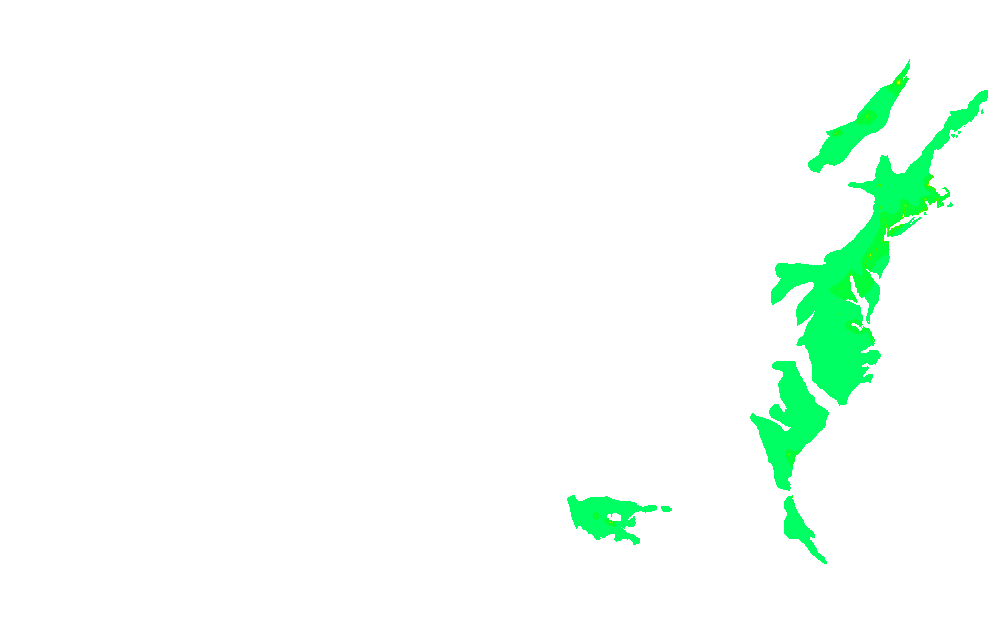
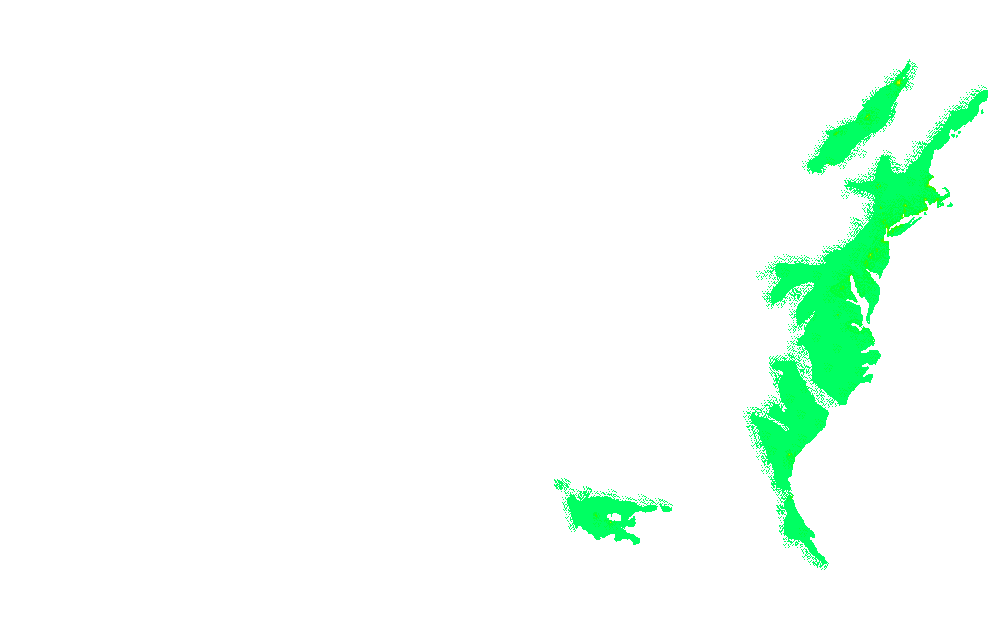
More Sparse Cities

diff --git a/src/populate.c b/src/populate.c
@@ -89,10 +89,10 @@ unsigned short calc_cell_population(int target_cell, struct DataDims data_dims, 
     if (pop > 40000) return pop;
 
     // Value of a cell on a scale of 0-100
-    short cell_value = jitter_range * 40;
+    short cell_value = jitter_range * 80;
     unsigned short nearby_water = count_neighbor_values(target_cell+2, 2, data_dims, ghost_cols, data).count;
 
-    cell_value += nearby_water > 25 ? 25 : nearby_water;
+    cell_value += nearby_water*0.75 > 25 ? 25 : nearby_water*0.75;
     cell_value += resources / 2;
     cell_value += 10 - (elev / 1000);
     cell_value += 15 - (grad / 3);
@@ -116,56 +116,57 @@ unsigned short calc_cell_population(int target_cell, struct DataDims data_dims, 
     // If the cell is uninhabited and the cell value is high enough, explore the cell
     if (pop == 0) {
         if (
-            (nearby_population.count > 0 && cell_value > 50) ||
-            (nearby_population.count > 40 && cell_value > 40) ||
-            (nearby_population.count > 70 && cell_value > 30) ||
-            (nearby_population.count > 100 && cell_value > 20)
+            (nearby_population.count > 0 && cell_value > 40) ||
+            (nearby_population.count > 4 * MIN_POP && cell_value > 35) ||
+            (nearby_population.count > 6 * MIN_POP && cell_value > 30) ||
+            (nearby_population.count > 8 * MIN_POP && cell_value > 20)
         // Randomly fail to explore the cell
-        ) return jitter < 0.05 * MAX_JITTER ? MIN_POP : 0;
+        ) return jitter < 0.9 * MAX_JITTER ? MIN_POP : 0;
 
-        return nearby_population.count > 0 && jitter < 0.002 * MAX_JITTER ? MIN_POP : 0;
+        return nearby_population.count > 0 && jitter < 0.05 * MAX_JITTER ? MIN_POP : 0;
     }
 
     // ~~~ SETTLEMENT PHASE ~~~ //
 
-    if (pop <= 1.3*MIN_POP && nearby_population.avg <= 1.3*MIN_POP) {
+    // If the cell is explored with no nearby cities
+    if (pop == MIN_POP && nearby_population.avg <= MIN_POP / 1.5) {
         // Settle new city
-        if (jitter < 1) return 10 * MIN_POP;
+        if (jitter < 3) return 8 * MIN_POP;
     }
     // If the cell is settled with nearby cities, expand the city with this cell
-    else if (pop <= 1.3*MIN_POP && jitter < cell_value / 10) {
+    else if (pop == MIN_POP && jitter < cell_value / 1.5) {
         if (nearby_population.avg < 150) return 10 + nearby_population.avg / 3;
         else if (nearby_population.avg < 300) return 10 + nearby_population.avg / 4;
         else if (nearby_population.avg < 500) return 10 + nearby_population.avg / 5;
         else return 10 + nearby_population.avg / 8;
     }
+    else if (pop == MIN_POP && jitter > MAX_JITTER - cell_value / 20)
+        return 1.5 * MIN_POP;
+
     // Skip growth if the criteria for an already settled cell are not met
-    if (pop <= 1.3*MIN_POP) return pop;
+    if (pop == MIN_POP) return MIN_POP;
 
     // ~~~ GROWTH PHASE ~~~ //
 
     // Add a bonus to the cell value based on the average population of the neighbors, scaling with the cell value
-    unsigned short neighbor_bonus = cell_value / 100.0 * nearby_population.avg;
+    unsigned short neighbor_bonus = (cell_value / 100.0) * nearby_population.avg;
     // Grow the cell by a factor of its population, scaling with the cell value, and add the neighbor bonus
-    float neighbor_growth_factor = 0.25;
-    if (nearby_population.avg > 2500) neighbor_growth_factor = 0.001;
-    if (nearby_population.avg > 1500) neighbor_growth_factor = 0.0015;
-    else if (nearby_population.avg > 1000) neighbor_growth_factor = 0.0012;
-    else if (nearby_population.avg > 750) neighbor_growth_factor = 0.002;
-    else if (nearby_population.avg > 500) neighbor_growth_factor = 0.05;
+    float neighbor_growth_factor = 0.023;
+    if (nearby_population.avg > 1500) neighbor_growth_factor = 0.00015;
+    else if (nearby_population.avg > 1000) neighbor_growth_factor = 0.0002;
+    else if (nearby_population.avg > 750) neighbor_growth_factor = 0.06;
+    else if (nearby_population.avg > 500) neighbor_growth_factor = 0.015;
 
     float city_center_bonus = 1;
-    if (pop * (1+jitter_range*0.1) >= nearby_population.max && pop > 2 * nearby_population.avg) city_center_bonus = 2.1;
+    if (pop * (1+jitter_range*0.5) > nearby_population.avg) city_center_bonus = 2.1;
 
-    float growth_factor = 0.18 * city_center_bonus;
-    if (pop > 3500) growth_factor = 0.001 * city_center_bonus;
-    else if (pop > 2500) growth_factor = 0.0005 * city_center_bonus;
-    else if (pop > 1500) growth_factor = 0.0006 * city_center_bonus;
-    else if (pop > 1000) growth_factor = 0.002 * city_center_bonus;
-    else if (pop > 750) growth_factor = 0.0025 * city_center_bonus;
-    else if (pop > 500) growth_factor = 0.0025 * city_center_bonus;
-    else if (pop > 250) growth_factor = 0.003 * city_center_bonus;
-    else if (pop <= 1.3*MIN_POP) growth_factor = 0;
+    float growth_factor = 0.011 * city_center_bonus;
+    if (pop > 3500) growth_factor *= 0.07;
+    else if (pop > 2500) growth_factor *= 0.12;
+    else if (pop > 1500) growth_factor *= 0.18;
+    else if (pop > 1000) growth_factor *= 0.2;
+    else if (pop > 750) growth_factor *= 0.22;
+    else if (pop > 500) growth_factor *= 0.3;
 
     float cell_bonus = cell_value * 1.3;
     if (cell_bonus > 100) cell_bonus = 100;
